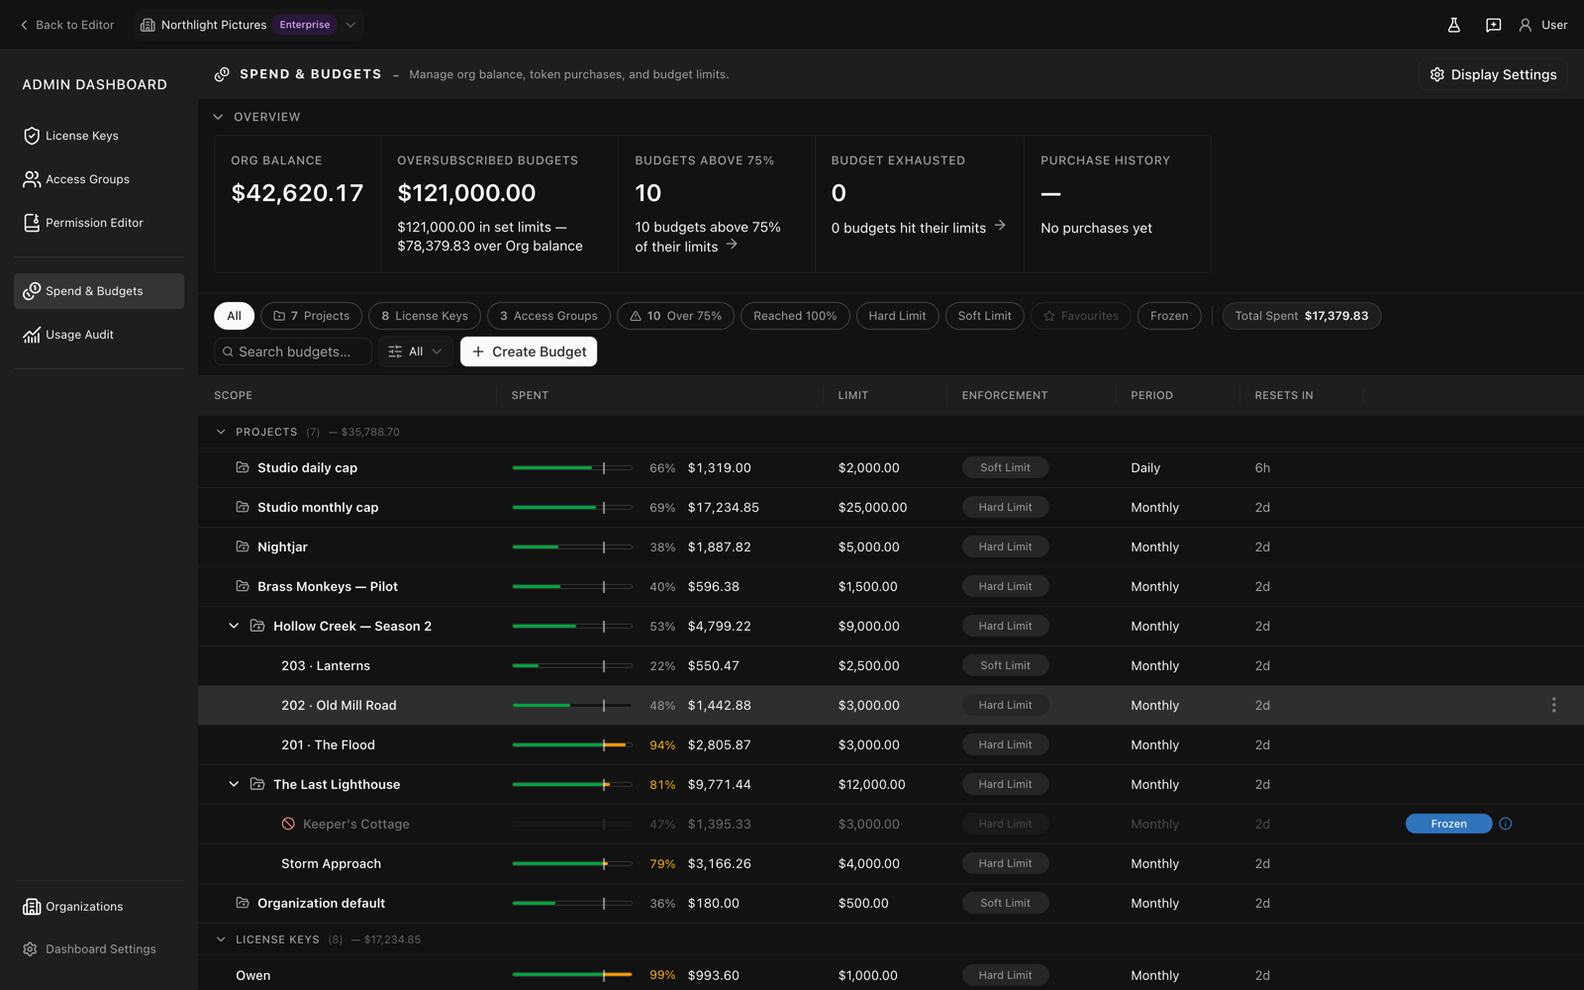
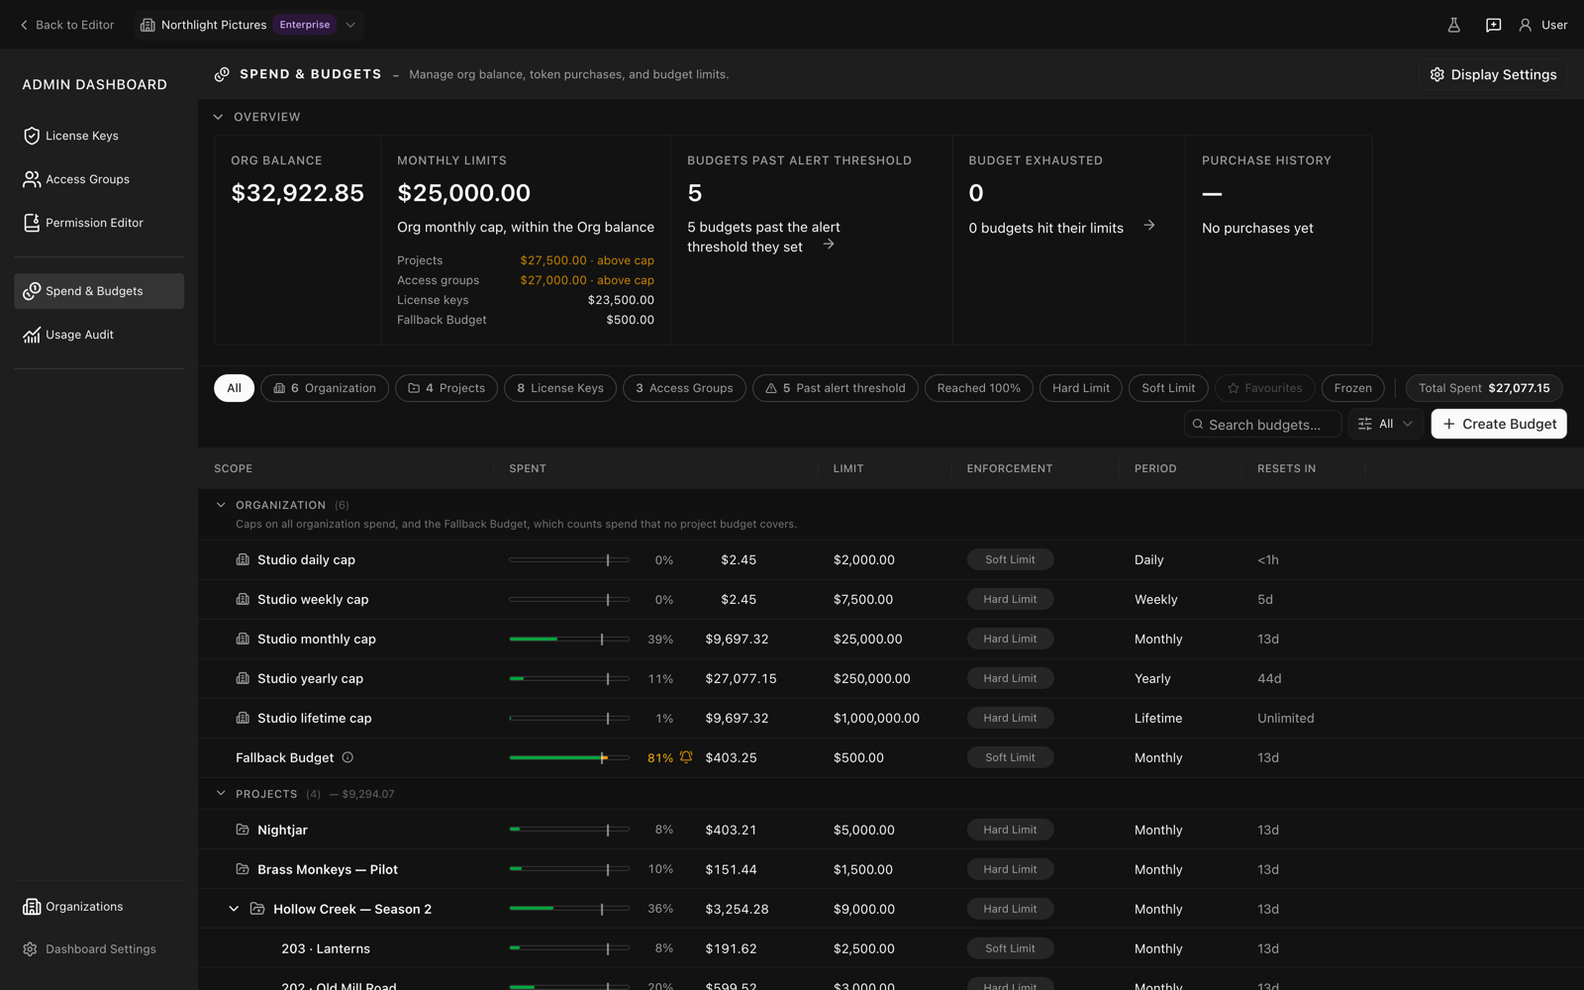
docs(enterprise): take Spend & Budgets and Usage Audit out of beta (#6384)
* docs(enterprise): take Spend & Budgets and Usage Audit out of beta

Describe the admin dashboard as it ships with the beta flag removed:
which plans include each page, the Organization section with
organization-wide caps and the Fallback Budget, the Monthly Limits
card, each budget's own alert threshold with its bell, the "Past alert
threshold" filter, and Usage Audit's last-30-days default and quick
ranges. Remove the flask-menu instructions and their screenshot.

Refs #6366

* docs(enterprise): retake the Spend & Budgets and Usage Audit screenshots

Taken from the editor at griptape-vsl-gui#3522 against local Cloud with
the Northlight Pictures demo organization, so they show the Organization
section, the Monthly Limits card, the alert threshold bell, and Usage
Audit's quick date ranges.

Refs #6366

* docs(enterprise): say which plans the budget pages need throughout

- The intro and the rollout steps read as if every plan had Spend &
  Budgets and Usage Audit: both now say it depends on the plan.
- The Usage Audit note now lists the Professional, Paid, Partner and
  Enterprise plans, as Cloud's field docs do, instead of "Professional
  and above".

Refs #6366

* docs(enterprise): match the Fallback Budget and date button to the screen

- The Fallback Budget section now gives its stored name, "Organization
  default", which the edit dialog's Name field and its alert emails use.
- Usage Audit's date button is described as reading "Last 30 days"
[…]

diff --git a/docs/enterprise/admin_dashboard.md b/docs/enterprise/admin_dashboard.md
@@ -1,6 +1,6 @@
 # Admin Dashboard
 
-The Admin Dashboard is the administration interface built into the Griptape Nodes editor. Organization owners use it to issue and manage license keys, organize users into access groups, control which libraries, nodes, models, and projects each user can access, and, in beta, set credit budgets and audit where credits are spent.
+The Admin Dashboard is the administration interface built into the Griptape Nodes editor. Organization owners use it to issue and manage license keys, organize users into access groups, control which libraries, nodes, models, and projects each user can access, and, depending on your plan, set credit budgets and audit where credits are spent.
 
 ## Who can use it
 
@@ -25,7 +25,7 @@ The dashboard opens in its own window, separate from the editor, so you can admi
 The dashboard has:
 
 - A **top bar** with a **Back to Editor** link, the active organization (or an organization switcher), and the signed-in user.
-- A **sidebar** with the sections: **License Keys**, **Access Groups**, and **Permission Editor**, plus **Spend & Budgets** and **Usage Audit** when their [beta](#turning-on-spend-budgets-and-usage-audit) is turned on.
+- A **sidebar** with the sections: **License Keys**, **Access Groups**, and **Permission Editor**, plus **Spend & Budgets** and **Usage Audit** when your organization's plan includes them.
 - A **Dashboard Settings** menu pinned to the bottom of the sidebar, with links to the onboarding guide and this documentation.
 
 ### The welcome dialog
@@ -121,48 +121,42 @@ Create a group with **+ Add New Access Group**, giving it a name and optionally 
 
 ## Spend & Budgets
 
-!!! warning "Beta"
+!!! note "Which plans include it"
 
-    **Spend & Budgets** and **Usage Audit** are in beta. They may change before they leave beta, and they are hidden until you turn them on. See [Turning on Spend & Budgets and Usage Audit](#turning-on-spend-budgets-and-usage-audit).
+    **Spend & Budgets** is included with the Enterprise plan. On other plans it does not appear in the sidebar.
 
 **Spend & Budgets** is where you cap how many credits your organization spends on AI models. A budget is a credit limit on one part of your organization, such as a show, a sequence, an artist's license key, or a department, over a period such as a month.
 
 Griptape Cloud checks the budgets that cover a call **before** the model runs. If the call would put a budget with a **Hard Limit** over its limit, the call is refused, nothing is charged, and the run stops at that node. The artist sees which budget stopped it; see [What artists see when a budget stops them](#what-artists-see-when-a-budget-stops-them).
 
-### Turning on Spend & Budgets and Usage Audit
-
-1. Open the Admin Dashboard.
-1. Click the **flask** button in the top bar to open **Admin Beta Features**.
-1. Turn on **Admin Beta Features**, then turn on **Spend & Budgets and Usage Audit**.
-
-![The Admin Beta Features menu, with Spend & Budgets and Usage Audit listed under Admin](../assets/img/enterprise/admin_dashboard-beta_menu.png)
-
 ### The overview
 
 ![The Spend & Budgets overview cards](../assets/img/enterprise/admin_dashboard-spend_overview.png)
 
-| Card                       | Shows                                                                                                                                                                                                                                                             |
-| -------------------------- | ----------------------------------------------------------------------------------------------------------------------------------------------------------------------------------------------------------------------------------------------------------------- |
-| **Org Balance**            | The credits your organization has left to spend.                                                                                                                                                                                                                  |
-| **Oversubscribed Budgets** | Every budget's limit added together, and how far that total is above your balance. Nested budgets are counted on top of their parents and reset periods are ignored, so this is "how much have we allowed to be spent", not a forecast. Use it as a sanity check. |
-| **Budgets Above 75%**      | How many budgets have used more than 75% of their limit. Click the arrow to list them.                                                                                                                                                                            |
-| **Budget Exhausted**       | How many budgets have reached their limit. Click the arrow to list them.                                                                                                                                                                                          |
-| **Purchase History**       | Your organization's most recent credit purchase and when it was made.                                                                                                                                                                                             |
+| Card                             | Shows                                                                                                                                                                                                                                                                                                                                                                                                            |
+| -------------------------------- | ---------------------------------------------------------------------------------------------------------------------------------------------------------------------------------------------------------------------------------------------------------------------------------------------------------------------------------------------------------------------------------------------------------------- |
+| **Org Balance**                  | The credits your organization has left to spend.                                                                                                                                                                                                                                                                                                                                                                 |
+| **Monthly Limits**               | Your organization's monthly cap (see [Organization-wide caps](#organization-wide-caps)) and whether it is within your balance. Below it, the monthly limits of your projects, access groups, license keys, and the Fallback Budget, each added up on its own. A total higher than the cap is marked **above cap**, because the cap stops spending first. A line appears only once that kind has a monthly limit. |
+| **Budgets Past Alert Threshold** | How many budgets have passed their own alert threshold but not yet their limit. Click the arrow to list them.                                                                                                                                                                                                                                                                                                    |
+| **Budget Exhausted**             | How many budgets have reached their limit. Click the arrow to list them.                                                                                                                                                                                                                                                                                                                                         |
+| **Purchase History**             | Your organization's most recent credit purchase and when it was made.                                                                                                                                                                                                                                                                                                                                            |
+
+**Monthly Limits** counts only monthly budgets, since your balance is spent month to month. It keeps the four totals apart because a single call counts toward its project, its license key and its access groups at once, so adding them together would count it more than once. A project's total includes only top-level projects, because a sub-project's spend is already part of its parent's.
 
 ### The budget table
 
-![The Spend & Budgets page with budgets for two shows, a feature, a pilot, artist keys and departments](../assets/img/enterprise/admin_dashboard-spend_budgets.png)
+![The Spend & Budgets page, with organization-wide caps and the Fallback Budget in the Organization section above the projects](../assets/img/enterprise/admin_dashboard-spend_budgets.png)
 
-Budgets are grouped into three sections: **Projects**, **License Keys**, and **Access Groups**. Each row shows:
+Budgets are grouped into four sections: **Organization**, **Projects**, **License Keys**, and **Access Groups**. Each row shows:
 
 - **Scope:** the budget's name. Budgets for sub-projects are nested under their parent project.
-- **Spent:** a bar, the percentage of the limit used, and the amount spent in the current period. A sub-project's spend is included in its parent's.
+- **Spent:** a bar, the percentage of the limit used, and the amount spent in the current period. A bell appears once spending passes the budget's alert threshold (see [Alert Thresholds](#alert-thresholds)). A sub-project's spend is included in its parent's.
 - **Limit:** the most that may be spent in the period.
 - **Enforcement:** **Hard Limit** or **Soft Limit** (see below).
 - **Period:** how often spending starts over.
 - **Resets In:** how long until the period ends and the spend goes back to zero.
 
-The chips above the table filter it by section, by status (**Over 75%**, **Reached 100%**, **Hard Limit**, **Soft Limit**), or to your **Favourites** or **Frozen** budgets. **Total Spent** is what your organization has spent in total. It comes from your credit history rather than adding up the rows, because a single call counts toward its project, its license key and its access groups at once. The search box matches names, amounts and periods, and also understands searches like `over 80%`.
+The chips above the table filter it by section, by status (**Past alert threshold**, **Reached 100%**, **Hard Limit**, **Soft Limit**), or to your **Favourites** or **Frozen** budgets. **Total Spent** is what your organization has spent in total. It comes from your credit history rather than adding up the rows, because a single call counts toward its project, its license key and its access groups at once. Because it comes from your credit history, it also leaves out calls on your own provider keys, which the rows include (see [What counts toward a budget](#what-counts-toward-a-budget)). The search box matches names, amounts and periods, and also understands searches like `over 80%`.
 
 To edit, favourite, freeze or delete a budget, hover its row and click **⋮**.
 
@@ -170,19 +164,26 @@ To edit, favourite, freeze or delete a budget, hover its row and click **⋮**.
 
 When you create a budget you choose its **Scope Type**:
 
+- **Organization:** everything your organization spends, whatever project, key or group it comes from. See [Organization-wide caps](#organization-wide-caps).
 - **Projects:** a project and everything under it. Choose an engine first; its projects are listed so you can pick one, at any depth. A budget on a show covers every sequence and shot in it, and you can add separate budgets for sequences inside it, which are nested under the show in the table.
 - **License Keys:** everything one license key spends, whatever project it works in.
 - **Access Groups:** everything spent by the license keys in an access group. A key in two groups counts toward both, which is why the **Access Groups** section shows no total.
 
 A call usually falls under more than one budget, for example its sequence, its show, the artist's key and the artist's department. **Every hard-limited budget that covers it must have room for the call**, so the tightest one decides.
 
-#### The organization default
+### The Organization section
 
-Every organization has a budget named **Organization default**, listed under **Projects**. It counts spend that no project budget covers, so you can see work happening outside your shows. It is always a soft limit: it never blocks anything. You can change its limit and period, but you cannot delete it.
+The **Organization** section sits at the top of the table, above **Projects**. It holds your organization-wide caps and the Fallback Budget.
 
 #### Organization-wide caps
 
-To cap everything your organization spends, whatever project or key it comes from, you can create a budget over the whole organization through the Griptape Cloud API. It appears under **Projects**. You can have one per period, so a daily cap can run alongside a monthly one.
+An organization-wide cap limits everything your organization spends, whatever project, key or group it comes from. Create one with **+ Create Budget** and the **Organization** scope type, or with **Add organization budget** in the Organization section when you have none yet. You can have one per period, so a daily cap can run alongside a monthly one. A monthly cap is the figure the **Monthly Limits** card shows. A cap doesn't replace the [Fallback Budget](#the-fallback-budget): spend outside your project budgets counts toward both.
+
+#### The Fallback Budget
+
+Every organization has a **Fallback Budget**, listed last in the Organization section. Griptape Cloud creates it the first time anyone opens your organization's budgets, for example in Spend & Budgets; until then, nothing limits spend outside your project budgets. It limits spend that no project budget covers, including calls that carry no project, or project details Griptape Cloud can't read. It is a **Hard Limit**, so once that spend reaches its limit for the period, those calls stop until you raise the limit or the period resets. A new organization's Fallback Budget starts at $100 a month. If you had already set its limit, that limit is kept. You can change its limit and period, switch it to **Soft Limit**, or freeze it, but you cannot delete it.
+
+Other budgets don't take this spend off the Fallback Budget. A call with no project, or in a project with no budget of its own, counts toward the Fallback Budget and toward every organization-wide, license key, or access group budget that covers it, and any of them can stop it. So if your organization doesn't budget its projects, the Fallback Budget limits that work even when your organization-wide cap has room. To avoid that, give the project a budget of its own or raise the Fallback Budget's limit.
 
 ### Creating a budget
 
@@ -190,7 +191,7 @@ Click **+ Create Budget**.
 
 ![The Create New Budget dialog, filled in for a monthly $7,000 budget on the Comp access group](../assets/img/enterprise/admin_dashboard-create_budget.png)
 
-- **Scope Type**, then the project, license key, or access group it covers. The scope cannot be changed later.
+- **Scope Type**, then the project, license key, or access group it covers. An **Organization** budget needs no choice: it covers all spend. The scope cannot be changed later.
 - **Name:** how the budget appears in the table and in the message artists see when it stops them. It defaults to the scope's name.
 - **Set Budget Limit:** in dollars, for the period.
 - **Freeze Budget Limit:** see [Freezing a budget](#freezing-a-budget).
@@ -198,15 +199,19 @@ Click **+ Create Budget**.
     - **Hard Limit:** a call that would go over the limit does not run.
     - **Soft Limit:** calls keep running past the limit, and the row shows that the limit was reached. Use it to watch spending without stopping anyone.
 - **Period:** **Daily**, **Weekly**, **Monthly**, **Yearly**, or **Lifetime**. Periods start at midnight UTC on calendar boundaries; weeks start on Monday. A lifetime budget never resets.
-- **Alert Thresholds:** the percentage of the limit, from 75% to 100%, at which the organization's owner is emailed, as well as at 100% (see below). Whatever threshold you choose, the bar in the **Spent** column has a marker at 75% and turns amber once spending passes 75%.
+- **Alert Thresholds:** the percentage of the limit, from 75% to 100%, at which the organization's owner is emailed, as well as at 100% (see below).
 
-![A budget past 75%: the bar turns amber after the marker](../assets/img/enterprise/admin_dashboard-alert_threshold.png)
+#### Alert Thresholds
+
+A budget's alert threshold shows in the **Spent** column. The bar has a marker at the threshold and turns amber once spending passes it, and a bell appears beside the percentage. Hover the bell to see the threshold, for example "Spend has passed this budget's 90% alert threshold." A budget with more than one threshold uses the lowest. At 100% the whole bar turns red and the bell goes away. The **Past alert threshold** chip and the **Budgets Past Alert Threshold** card list the budgets showing a bell.
+
+![A budget past its alert threshold: the bar turns amber after the marker and a bell appears](../assets/img/enterprise/admin_dashboard-alert_threshold.png)
 
 When a budget passes a threshold, the organization's owner gets an email. That includes a budget you edit so that it is already past one, for example by lowering its limit. Every budget also emails at 100%, whatever threshold you chose and whether its limit is hard or soft, and a **Hard Limit** budget that refuses a call sends that 100% email if it hasn't gone out yet. Thresholds crossed at the same moment send one email, for the highest; one crossed later in the period sends another. Raising the limit back above a threshold resets it, so crossing it again sends a new email.
 
 !!! note "Who gets alert emails"
 
-    During the beta, alert emails go only to the organization's owner, the account that created it. They cannot be sent to other people or set per budget yet.
+    Alert emails go only to the organization's owner, the account that created it. They cannot be sent to other people or set per budget.
 
 ### Freezing a budget
 
@@ -216,7 +221,14 @@ Freezing a budget stops all work under it straight away, whatever is left of its
 
 ### What counts toward a budget
 
-During the beta, budgets count calls paid for with your organization's **Griptape credits**. Calls that use your own provider API keys are not counted, whether they go through Griptape Cloud or straight to the provider.
+Every budget counts two kinds of call:
+
+- Calls paid for with your organization's **Griptape credits**.
+- Calls that go through Griptape Cloud on your organization's own provider API key.
+
+A call on your own key is valued at Griptape's price for that model, the same as if it had used credits, so it uses up a budget faster than the provider's own bill for it would suggest. A call on your own key to a model Griptape has no price for counts as $0. A **Hard Limit** budget, or a frozen one, stops calls on your own key just as it stops credit calls.
+
+Calls that go straight from the engine to a provider, without passing through Griptape Cloud, are not counted. There is no setting to change what a budget counts.
 
 ### What artists see when a budget stops them
 
@@ -228,9 +240,9 @@ The agent chat shows a similar message when a budget stops a reply. Nothing is c
 
 ## Usage Audit
 
-!!! warning "Beta"
+!!! note "Which plans include it"
 
-    **Usage Audit** is in beta and hidden until you turn it on with **Spend & Budgets**. See [Turning on Spend & Budgets and Usage Audit](#turning-on-spend-budgets-and-usage-audit).
+    **Usage Audit** is included with the Professional and Enterprise plans. On other plans it does not appear in the sidebar.
 
 **Usage Audit** shows where your organization's credits went, so you can see which shows, artists and models are spending, and set budgets to match.
 
@@ -238,14 +250,14 @@ The agent chat shows a similar message when a budget stops a reply. Nothing is c
 
 ### Choosing the dates
 
-The page opens on the current month so far. Click the dates in the **Date Range** card to choose a different range, then **Apply**. Every chart and total on the page uses the range.
+The page opens on the last 30 days. Click the button in the **Date Range** card, which reads **Last 30 days** when the page opens, to choose a different range: pick one of the quick ranges (**Last 1 day**, **Last 30 days**, **Last 90 days**, or **This month**), which applies straight away, or set the dates yourself and click **Apply**. Every chart and total on the page uses the range.
 
 ![The Usage Audit date range picker](../assets/img/enterprise/admin_dashboard-usage_date_range.png)
 
 ### The tabs
 
 - **Overview:** the total spent in the range, spend by project, by license key, by access group, and by model provider, and how many calls there were of each kind (image, video, 3D, text).
-- **Projects:** pick a project from the list to see its spend over time, which models it used, and how it stands against its budget. The list is nested the same way as your projects, and a warning icon marks any above 75% of its budget.
+- **Projects:** pick a project from the list to see its spend over time, which models it used, and how it stands against its budget. The list is nested the same way as your projects, and a warning icon marks any past its budget's alert threshold.
 - **License Keys:** the same, per license key.
 - **Access Groups:** the same, per access group. A key in two groups counts toward both, so group totals can add up to more than your organization spent.
 - **Per Model:** spend by model provider, and within each provider by model.
@@ -359,4 +371,4 @@ A typical rollout looks like:
 1. **Create a license key per user**, adding each key to the right access groups, and send each user their token.
 1. Users **activate** their seats by pasting the token into the desktop application. On-premises deployments use an [Admin Server](admin_server.md). License-activated users get the editor only; the Admin Dashboard never appears for them.
 1. Monitor and manage seats from the License Keys section. Watch active **sessions**, **release** stuck ones, **reissue** lost tokens, and **revoke** keys when someone leaves.
-1. In beta, **set budgets** in Spend & Budgets for each show, key or department, and check **Usage Audit** to see where credits are going.
+1. **Set budgets** in [Spend & Budgets](#spend-budgets) for each show, key or department, and check [Usage Audit](#usage-audit) to see where credits are going, if your plan includes them.
